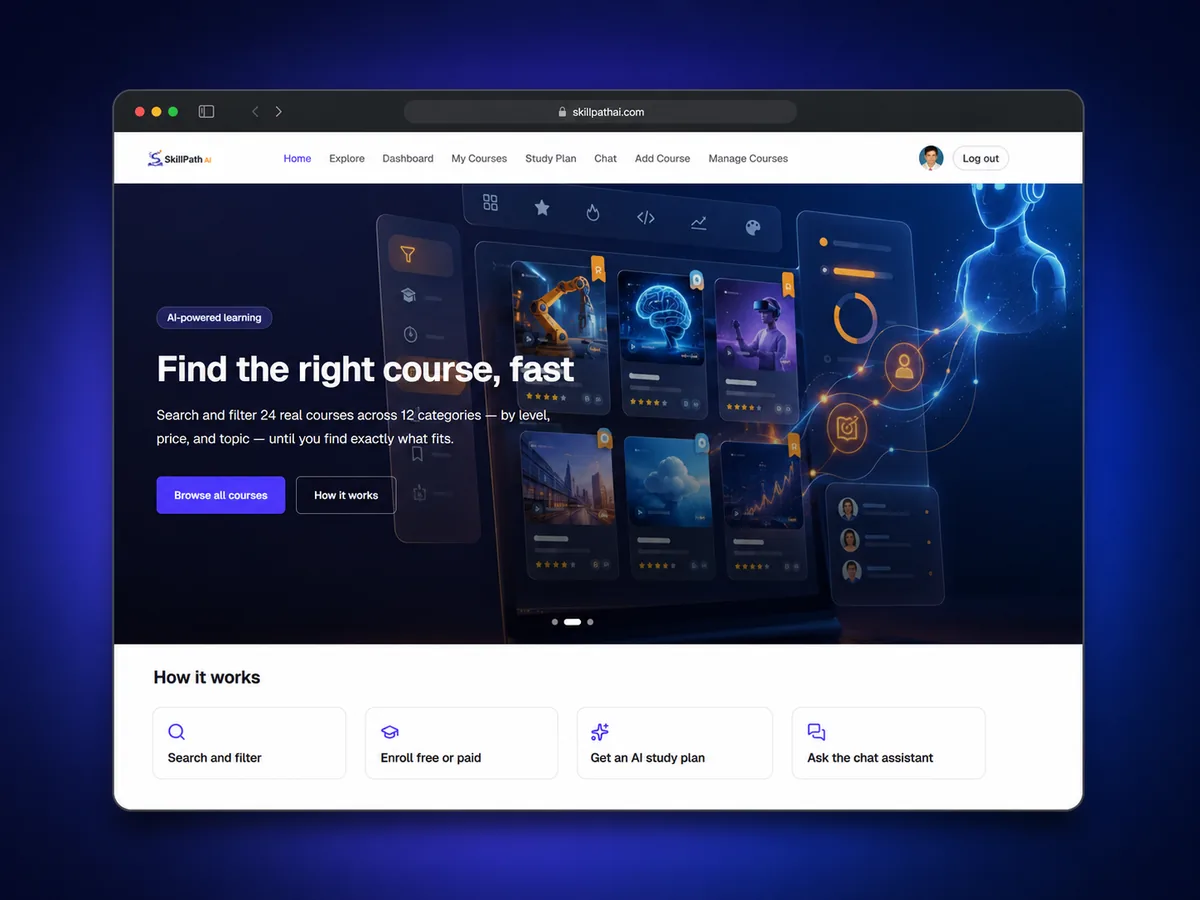
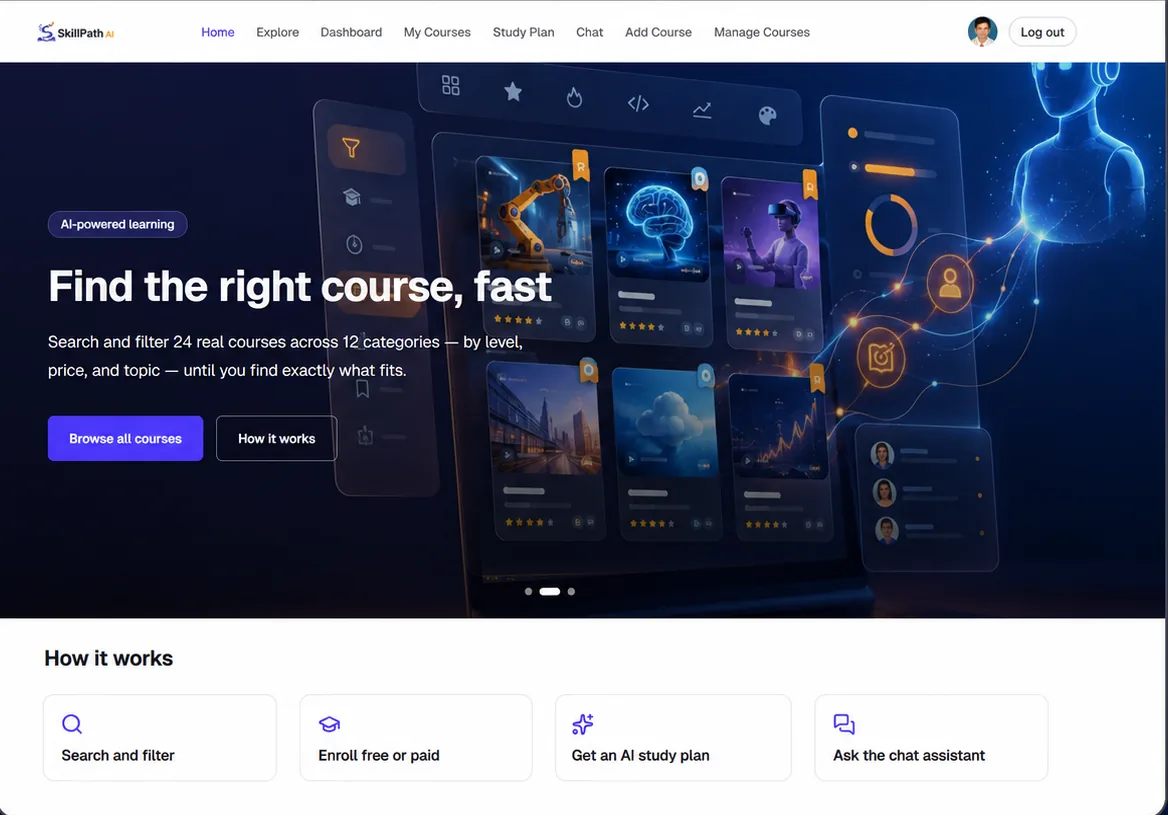
Show project screenshots uncropped and move the resume link into About
Project images
- Switches the card images from object-cover to object-contain object-center.
  The three sources have different native ratios, so any single crop box sliced
  one of them - it was cutting the left edge off the DentFlow browser frame.
  Contain letterboxes on a neutral panel instead, so every screenshot is whole
  and undistorted, with padding keeping the frame edges off the card border.
- Wrapper now carries a consistent aspect ratio and fills the row at lg, so the
  panels match across cards.
- Image stays first in DOM order, so mobile stacks it above the copy;
  lg:order-2 only alternates sides once there are two columns.
- Dropped the 1.02 image scale from card-interactive. With object-contain the
  image already touches its box on one axis, so scaling clipped the browser
  frame - the one thing these cards exist to show. The card lift is unchanged.
- Regenerated dentflow.webp and skillpath-ai.webp from the updated sources,
  which are now clean browser-window crops without the marketing backdrop, and
  corrected their intrinsic dimensions and alt text.

Resume link
- Removed "Download My Resume" from the hero, which now carries only View My
  Projects and Start a Project.
- Added a secondary outline "Download Resume" button with a download icon to
  About, directly after the summary and before the skills. It is a plain
  anchor rather than next/link so the download hits the file directly, and the
  file type is announced for screen readers.
[…]

diff --git a/src/components/sections/About.tsx b/src/components/sections/About.tsx
@@ -1,6 +1,10 @@
+import { LuDownload } from "react-icons/lu";
+
+import { buttonClass } from "@/components/ui/Button";
 import { Section } from "@/components/ui/Section";
 import { SectionHeading } from "@/components/ui/SectionHeading";
 import { about, skillGroups } from "@/data/about";
+import { site } from "@/data/site";
 
 export function About() {
   return (
@@ -12,19 +16,37 @@ export function About() {
       />
 
       <div className="mt-14 grid gap-14 lg:grid-cols-[1fr_1fr] lg:gap-20">
-        <div className="space-y-6" data-reveal>
-          {about.paragraphs.map((paragraph, index) => (
-            <p
-              key={paragraph.slice(0, 32)}
-              className={
-                index === 0
-                  ? "text-ink max-w-prose text-lg leading-relaxed md:text-xl"
-                  : "text-ink-muted max-w-prose leading-relaxed"
-              }
-            >
-              {paragraph}
-            </p>
-          ))}
+        <div data-reveal>
+          <div className="space-y-6">
+            {about.paragraphs.map((paragraph, index) => (
+              <p
+                key={paragraph.slice(0, 32)}
+                className={
+                  index === 0
+                    ? "text-ink max-w-prose text-lg leading-relaxed md:text-xl"
+                    : "text-ink-muted max-w-prose leading-relaxed"
+                }
+              >
+                {paragraph}
+              </p>
+            ))}
+          </div>
+
+          {/*
+           * A plain anchor, not next/link: `download` on a static asset should
+           * hit the file directly rather than go through the client router.
+           * The file type and size are announced for screen readers, since
+           * "Download" alone doesn't say what is about to arrive.
+           */}
+          <a
+            href={site.resumeUrl}
+            download
+            className={buttonClass({ tone: "outline", className: "mt-8" })}
+          >
+            <LuDownload className="size-4" aria-hidden="true" />
+            Download Résumé
+            <span className="sr-only"> (PDF)</span>
+          </a>
         </div>
 
         <div className="grid gap-4 sm:grid-cols-2 lg:grid-cols-1" data-reveal>

diff --git a/src/components/sections/Projects.tsx b/src/components/sections/Projects.tsx
@@ -30,21 +30,34 @@ export function Projects() {
                 project.image ? "lg:grid-cols-2" : ""
               } ${project.image ? "card-interactive" : "card-static"}`}
             >
+              {/*
+               * `object-contain` on a neutral panel, never `object-cover`: the
+               * three sources have different native ratios (4:3, 4:3 and 5:6),
+               * so any single crop box would slice one of them — it was cutting
+               * the left edge off the DentFlow browser frame. Contain letterboxes
+               * instead, so every screenshot is whole and undistorted. The
+               * padding keeps the frame edges off the card border.
+               *
+               * First in DOM order, so mobile stacks the image above the copy;
+               * `lg:order-2` only alternates sides once there are two columns.
+               */}
               {project.image ? (
                 <div
-                  className={`bg-canvas-alt relative aspect-[3/2] overflow-hidden lg:aspect-auto lg:min-h-full ${
-                    index % 2 === 1 ? "lg:order-2" : ""
-                  }`}
+                  className={`bg-canvas-alt border-hairline relative aspect-[4/3] p-5 lg:aspect-auto lg:h-full lg:p-7 ${
+                    index % 2 === 1
+                      ? "lg:order-2 lg:border-l lg:border-b-0"
+                      : "lg:border-r lg:border-b-0"
+                  } border-b`}
                 >
                   <Image
                     src={project.image.src}
                     alt={project.image.alt}
                     width={project.image.width}
                     height={project.image.height}
-                    /* Below the fold on every breakpoint. */
+                    /* Below the fold at every breakpoint. */
                     loading="lazy"
                     sizes="(min-width: 1024px) 50vw, 100vw"
-                    className="size-full object-cover object-top"
+                    className="size-full object-contain object-center"
                   />
                 </div>
               ) : null}

diff --git a/src/components/sections/Hero.tsx b/src/components/sections/Hero.tsx
@@ -1,10 +1,9 @@
 import Image from "next/image";
-import { LuArrowDown, LuArrowUpRight } from "react-icons/lu";
+import { LuArrowDown } from "react-icons/lu";
 
 import { ButtonLink } from "@/components/ui/Button";
 import { Container } from "@/components/ui/Container";
 import { hero, trustIndicators } from "@/data/hero";
-import { site } from "@/data/site";
 
 export function Hero() {
   return (
@@ -42,6 +41,7 @@ export function Hero() {
               {hero.description}
             </p>
 
+            {/* Two actions only — the résumé now lives in About, below the summary. */}
             <div className="mt-10 flex flex-wrap items-center gap-3">
               <ButtonLink href="#projects" tone="action" size="lg">
                 View My Projects
@@ -50,14 +50,6 @@ export function Hero() {
               <ButtonLink href="#contact" tone="outline" size="lg">
                 Start a Project
               </ButtonLink>
-              <a
-                href={site.resumeUrl}
-                download
-                className="text-ink hover:text-action decoration-action focus-visible:outline-action inline-flex items-center gap-1.5 rounded-sm text-sm font-medium underline decoration-2 underline-offset-[6px] transition-colors duration-200 focus-visible:outline-2 focus-visible:outline-offset-4"
-              >
-                Download My Résumé
-                <LuArrowUpRight className="size-4" aria-hidden="true" />
-              </a>
             </div>
           </div>
 

diff --git a/src/data/projects.ts b/src/data/projects.ts
@@ -30,9 +30,9 @@ export const projects: readonly Project[] = [
     ],
     image: {
       src: "/projects/dentflow.webp",
-      width: 1200,
-      height: 900,
-      alt: "The DentFlow landing page, headlined “Run your clinic with clarity”, with navigation for Dashboard, Services and Manage Services.",
+      width: 1154,
+      height: 852,
+      alt: "The DentFlow landing page in a browser window, headlined “Run your clinic with clarity. Care for patients with confidence.”, with navigation for Dashboard, Services and Manage Services.",
     },
   },
   {
@@ -61,9 +61,9 @@ export const projects: readonly Project[] = [
     ],
     image: {
       src: "/projects/skillpath-ai.webp",
-      width: 1200,
-      height: 900,
-      alt: "The SkillPath AI course-discovery interface, headlined “Find the right course, fast”, above a “How it works” row.",
+      width: 1168,
+      height: 815,
+      alt: "The SkillPath AI app, headlined “Find the right course, fast”, above a “How it works” row of search, enrol, study-plan and chat steps.",
     },
   },
   {

diff --git a/src/components/sections/Footer.tsx b/src/components/sections/Footer.tsx
@@ -8,7 +8,7 @@ import { navLinks, site, socialLinks } from "@/data/site";
 const quickLinks = [
   ...navLinks.filter((link) => link.href !== "/#home"),
   { label: "Resources", href: "/resources" },
-  { label: "RÃ©sumÃ©", href: site.resumeUrl },
+  { label: "Résumé", href: site.resumeUrl },
 ];
 
 const linkClass =
@@ -80,7 +80,7 @@ export function Footer() {
         <Container className="flex flex-col gap-3 py-6 sm:flex-row sm:items-center sm:justify-between">
           <p className="text-on-dark-muted text-xs">{footer.copyright}</p>
           <p className="text-on-dark-muted text-xs">
-            Built with Next.js &amp; Tailwind CSS Â·{" "}
+            Built with Next.js &amp; Tailwind CSS ·{" "}
             <a
               href={site.repoUrl}
               target="_blank"

diff --git a/src/app/globals.css b/src/app/globals.css
@@ -165,20 +165,17 @@
     box-shadow: 0 12px 28px -12px rgb(26 24 21 / 0.18);
   }
 
-  /* Paired with `overflow-hidden` on the image wrapper. */
-  & img {
-    transition: transform 220ms var(--ease-out-quad);
-  }
-
-  &:hover img {
-    transform: scale(1.02);
-  }
+  /*
+   * No image scale on hover. The project screenshots use `object-contain`, so
+   * the rendered image already touches its box on one axis — scaling it up
+   * would push those edges outside and clip the browser frame, which is the
+   * one thing these cards exist to show. The card lift carries the hover.
+   */
 
   @media (prefers-reduced-motion: reduce) {
     transition: border-color 220ms linear;
 
-    &:hover,
-    &:hover img {
+    &:hover {
       transform: none;
     }
   }

diff --git a/src/app/page.tsx b/src/app/page.tsx
@@ -24,7 +24,7 @@ export default function Home() {
 
       <main id="main">
         {/*
-         * Development leads: Services â†’ Projects â†’ Testimonials establish the
+         * Development leads: Services → Projects → Testimonials establish the
          * primary positioning before the outreach tooling appears.
          */}
         <Hero />
